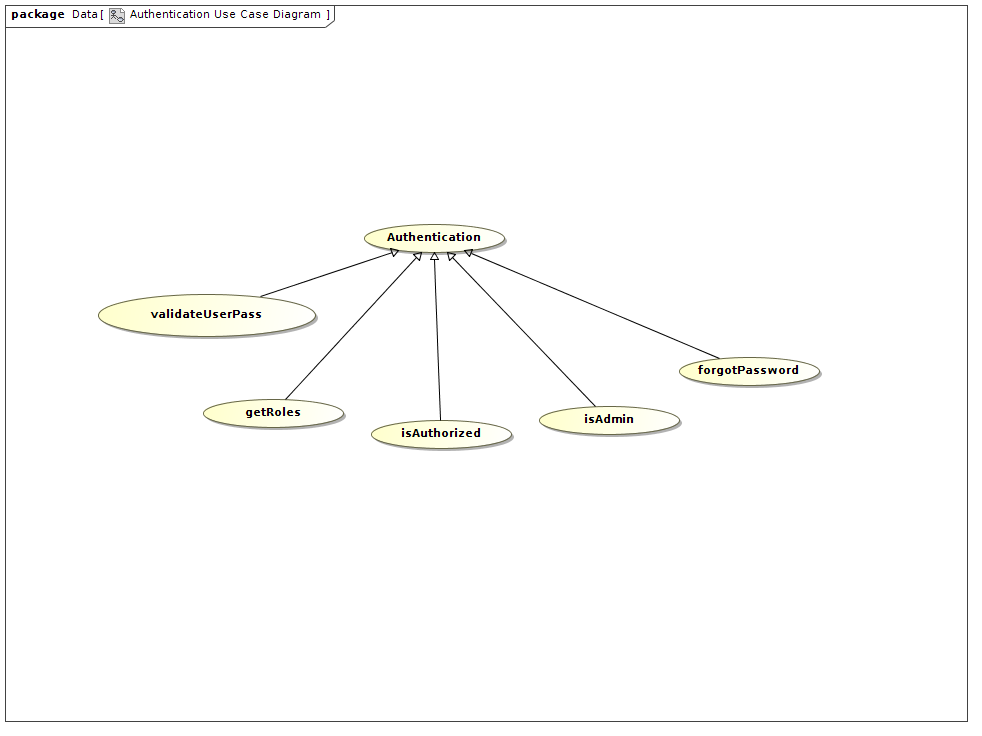
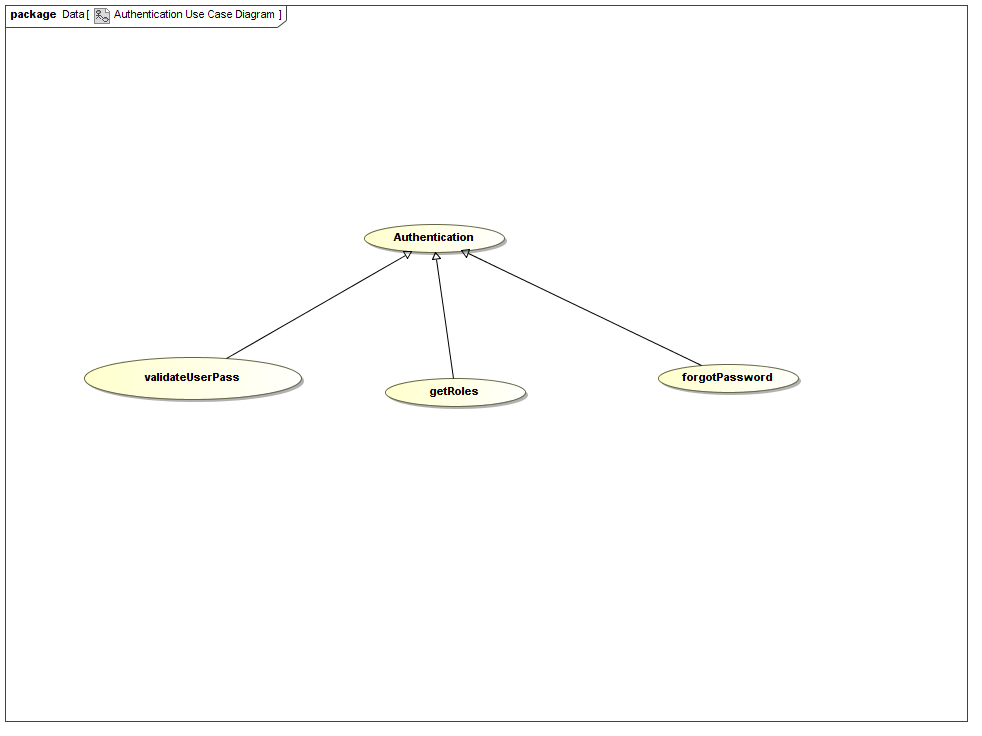
edited route for inventory view and modified authentication use case

diff --git a/Cafeteria_Management_System/public/modules/core/views/header.client.view.html b/Cafeteria_Management_System/public/modules/core/views/header.client.view.html
@@ -61,7 +61,7 @@
                         <a href="/#!/settings/assignRoles"> Assign Roles</a>
                     </li>
                     <li data-ng-show="authentication.user.roles[0] === 'cafeteriaManager'">
-                        <a href="/#!/cafeteriaManager"> Manage Cafeteria </a>
+                        <a href="/#!/inventory"> Manage Cafeteria </a>
                     </li>
                     <li data-ng-show="authentication.user.roles[0] === 'cashier'">
                         <a href="/#!/cashier"> Cashier </a>

diff --git a/Cafeteria_Management_System/public/modules/users/config/users.client.routes.js b/Cafeteria_Management_System/public/modules/users/config/users.client.routes.js
@@ -50,8 +50,8 @@ angular.module('users').config(['$stateProvider',
             templateUrl: 'modules/users/views/settings/assignRoles.html'
         }).
         state('cafeteriaManager', {
-            url: '/cafeteriaManager',
-            templateUrl: 'modules/users/views/settings/cafeteriaManager.html'
+            url: '/inventory',
+            templateUrl: 'modules/users/views/settings/inventory.html'
         }).
         state('cashier', {
             url: '/cashier',
